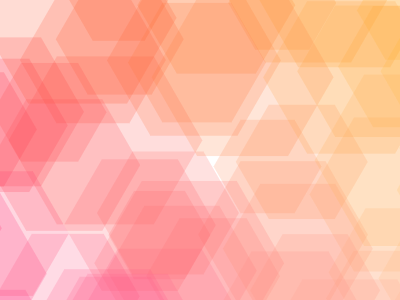
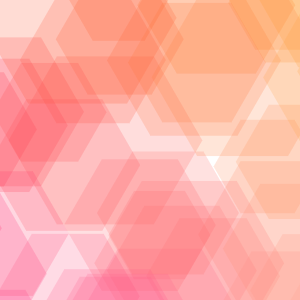
Redesign post page

diff --git a/_sass/_post.scss b/_sass/_post.scss
@@ -1,0 +1,78 @@
+.post-wrap {
+	position: absolute;
+	top: 0;
+	bottom: 0;
+}
+
+article.post {
+	position: absolute;
+	top: 0;
+	width: 100%;
+	.title {
+		margin: 0;
+		font-weight: 200;
+		text-transform: uppercase;
+	}
+	.frame { //canvas's parent
+		canvas {display: block;}
+		width: 100%;
+		position: absolute;
+		bottom: 0;
+		border: 1px solid #E3E3E3;
+	}
+}
+ul.post-nav {
+	position: absolute;
+	bottom: 0;
+	width: 100%;
+
+	margin: 0;
+	padding: 0;
+	list-style-type: none;
+	overflow: hidden;
+	li {
+		float: left;
+		text-transform: uppercase;
+	}
+	.disabled { color: #BBB; }
+}
+
+@media (max-width: $g-breakp-1) {
+	$lr-margin: 1rem;
+	.post-wrap {
+		left: $lr-margin;
+		right: $lr-margin;
+	}
+	$margin-outmost: 2.5rem;
+	article.post { bottom: $margin-outmost; }
+	ul.post-nav { height: $margin-outmost; line-height: $margin-outmost; }
+	article.post .title { height: $margin-outmost; line-height: $margin-outmost; font-size: $margin-outmost * 0.4; }
+	article.post .frame { top: $margin-outmost; }
+	ul.post-nav li { font-size: 0.8rem; margin-right: 0.8rem; }
+}
+@media (min-width: $g-breakp-1 + 1px) and (max-width: $g-breakp-2) {
+	$lr-margin: 2rem;
+	.post-wrap {
+		left: $lr-margin;
+		right: $lr-margin;
+	}
+	$margin-outmost: 3rem;
+	article.post { bottom: $margin-outmost; }
+	ul.post-nav { height: $margin-outmost; line-height: $margin-outmost; }
+	article.post .title { height: $margin-outmost; line-height: $margin-outmost; font-size: $margin-outmost * 0.4; }
+	article.post .frame { top: $margin-outmost; }
+	ul.post-nav li { font-size: 0.9rem; margin-right: 0.9rem; }
+}
+@media (min-width: $g-breakp-2 + 1px) {
+	$lr-margin: 4rem;
+	.post-wrap {
+		left: $lr-margin;
+		right: $lr-margin;
+	}
+	$margin-outmost: 4rem;
+	article.post { bottom: $margin-outmost; }
+	ul.post-nav { height: $margin-outmost; line-height: $margin-outmost; }
+	article.post .title { height: $margin-outmost; line-height: $margin-outmost; font-size: $margin-outmost * 0.4; }
+	article.post .frame { top: $margin-outmost; }
+	ul.post-nav li { font-size: 1rem; margin-right: 1rem; }
+}

diff --git a/css/main.scss b/css/main.scss
@@ -23,6 +23,7 @@ $g-breakp-2: 1000px;
 body {
 	margin: 0 auto;
 	max-width: 75rem;
+	height: 100%;
 	box-sizing: border-box;
 
 	@media (max-width: $g-breakp-1) {
@@ -67,102 +68,5 @@ footer .copyright {
 
 }
 
-/* page > index */
-
-.post_list {
-	margin: 0;
-	padding: 0;
-	list-style-type: none;
-	overflow: hidden;
-	li {
-		box-sizing: border-box;
-		border: 1rem solid #FFF;
-	}
-
-	$breakp-1: 600px;
-	$breakp-2: 900px;
-	@media (max-width: $breakp-1) {
-		$n-col: 2;
-		& li { width: 100% / $n-col; float: left; }
-	}
-	@media (min-width: $breakp-1 + 1px) and (max-width: $breakp-2) {
-		$n-col: 4;
-		& li { width: 100% / $n-col; float: left; }
-	}
-	@media (min-width: $breakp-2 + 1px) {
-		$n-col: 6;
-		& li { width: 100% / $n-col; float: left; }
-	}
-
-	.card {
-		display: block;
-		border-radius: 50%;
-		position: relative;
-		$deg: -2deg;
-		img {
-			display: block;
-			width: 100%;
-			border-radius: 0.5rem;
-			transform: rotate($deg);
-			-webkit-transform: rotate($deg);
-			-ms-transform: rotate($deg);
-		}
-		.info {
-			display: block;
-			transform: rotate($deg);
-			-webkit-transform: rotate($deg);
-			-ms-transform: rotate($deg);
-			padding-left: 0.3rem;
-			margin-top: 0.2rem;
-		}
-		.date {
-			display: block;
-			font-size: 0.9rem;
-		}
-	}
-}
-
-/* post */
-article.post {
-	canvas {display: block;}
-	.canvas_box {
-		position: absolute;
-		top: 0;
-		bottom: 0;
-		left: 0;
-		right: 0;
-	}
-	.menu {
-		box-sizing: border-box;
-		z-index: 1;
-	}
-}
-
-article.post .menu {
-	position: absolute;
-	top: 0;
-	right: 0;
-	padding: 0.5rem 1rem;
-	
-	.title {
-		margin: 0;
-		font-weight: normal;
-		font-size: 1.1rem;
-		text-align: right;
-		text-transform: uppercase;
-	}
-	.nav {
-		margin: 0;
-		padding: 0;
-		list-style-type: none;
-		float: right;
-
-		li {
-			display: inline-block;
-			margin-right: 0.5rem;
-		}
-		li:last-child {
-			margin-right: 0;
-		}
-	}
-}
+@import "_post-list";
+@import "_post";

diff --git a/_layouts/post.html b/_layouts/post.html
@@ -1,25 +1,23 @@
 ---
 layout: default
 ---
-<article class="post">
-	<div class="menu" {% if page.bgcolor %}style="background-color: rgba({{ page.bgcolor }}, 0.5);"{% endif %}>
-		<h1 class="title" style="color: rgba({{ page.pointcolor }}, 0.8); {% if page.bgcolor %}text-shadow: 1px 1px 1px rgb({{ page.bgcolor }});{% endif %}">{% if page.title %}{{ page.title }}{% else %}Untitled Alan + Tessa Project{% endif %}</h1>
-		<ul class="nav">
-			<li class="home"><a href="/" style="color: rgba({{ page.pointcolor }}, 0.5);">home</a></li>
-			<li class="newer">
-				{% if page.next.url %}<a href="{{ page.next.url }}" style="color: rgba({{ page.pointcolor }}, 0.5);">newer</a>
-				{% else %}<span style="color: rgba({{ page.pointcolor }}, 0.3);">newer</span>{% endif %}
-			</li>
-			<li class="older">
-				{% if page.previous.url %}<a href="{{ page.previous.url }}" style="color: rgba({{ page.pointcolor }}, 0.5);">older</a>
-				{% else %}<span style="color: rgba({{ page.pointcolor }}, 0.3);">older</span>{% endif %}
-			</li>
-		</ul>
-	</div>
-	<div class="canvas_box">
-		{{ content }}
-	</div>
-</article>
+<div class="post-wrap">
+	<article class="post">
+		<h1 class="title">{% if page.title %}{{ page.title }}{% else %}Untitled Alan + Tessa Project{% endif %}</h1>
+		<div class="frame">{{ content }}</div>
+	</article>
+	<ul class="post-nav">
+		<li class="home"><a href="/">home</a></li>
+		<li class="newer">
+			{% if page.next.url %}<a href="{{ page.next.url }}">newer</a>
+			{% else %}<span class="disabled">newer</span>{% endif %}
+		</li>
+		<li class="older">
+			{% if page.previous.url %}<a href="{{ page.previous.url }}">older</a>
+			{% else %}<span class="disabled">older</span>{% endif %}
+		</li>
+	</ul>
+</div>
 
 <script type="text/javascript" src="/js/seedrandom.min.js"></script>
 <script type="text/javascript" src="/js/draw.js"></script>

diff --git a/_sass/_post-list.scss b/_sass/_post-list.scss
@@ -1,0 +1,44 @@
+.post-list {
+	margin: 0;
+	padding: 0;
+	list-style-type: none;
+	overflow: hidden;
+	li {
+		box-sizing: border-box;
+		border: 1rem solid #FFF;
+	}
+
+	$breakp-1: 600px;
+	$breakp-2: 900px;
+	@media (max-width: $breakp-1) {
+		$n-col: 2;
+		& li { width: 100% / $n-col; float: left; }
+	}
+	@media (min-width: $breakp-1 + 1px) and (max-width: $breakp-2) {
+		$n-col: 4;
+		& li { width: 100% / $n-col; float: left; }
+	}
+	@media (min-width: $breakp-2 + 1px) {
+		$n-col: 6;
+		& li { width: 100% / $n-col; float: left; }
+	}
+
+	.card {
+		display: block;
+		border-radius: 50%;
+		position: relative;
+		img {
+			display: block;
+			width: 100%;
+			border-radius: 0.5rem;
+		}
+		.info {
+			display: block;
+			margin-top: 0.3rem;
+		}
+		.date {
+			display: block;
+			font-size: 0.9rem;
+		}
+	}
+}

diff --git a/index.html b/index.html
@@ -3,7 +3,7 @@ layout: page
 class: index
 ---
 
-<ol class="post_list">{% for post in site.posts %}
+<ol class="post-list">{% for post in site.posts %}
 	<li><a href="{{ post.url | prepend: site.baseurl }}" class="card">
 		<img src="/image/thumbnail/{{ post.thumbnail }}" alt="{{ post.title }}">
 		<span class="info">

diff --git a/_posts/2015-05-02-cherry-blossom.html b/_posts/2015-05-02-cherry-blossom.html
@@ -1,10 +1,11 @@
 ---
 layout: post
-title:  "cherry blossom inspired"
-thumbnail: "cherry-blossom-inspired-sqr.png"
-pointcolor: "235,79,79"
+title:  "cherry blossom"
+thumbnail: "cherry-blossom.png"
 ---
+
 <canvas class="draw-target"></canvas>
+
 <script>
 var emitter1;
 var emitter2;

diff --git a/js/draw.js b/js/draw.js
@@ -36,8 +36,8 @@
             return;
         }
 
-        w = canvas.parentNode.offsetWidth;
-        h = canvas.parentNode.offsetHeight;
+        w = canvas.parentNode.clientWidth;
+        h = canvas.parentNode.clientHeight;
         canvas.width = w;
         canvas.height = h;
 

diff --git a/_posts/2015-05-02-hexagon-watercolor.html b/_posts/2015-05-02-hexagon-watercolor.html
@@ -1,10 +1,11 @@
 ---
 layout: post
 title:  "hexagon watercolor"
-thumbnail: "hexagon-watercolor-sqr.png"
-pointcolor: "255, 68, 35"
+thumbnail: "hexagon-watercolor.png"
 ---
+
 <canvas class="draw-target" data-fps="100"></canvas>
+
 <script>
 var paused;
 
